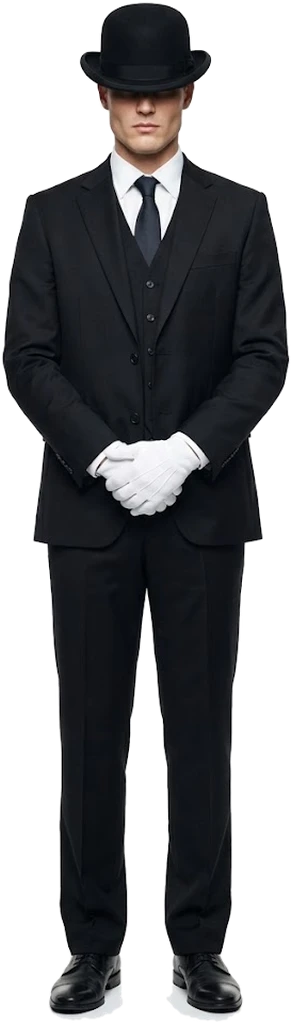
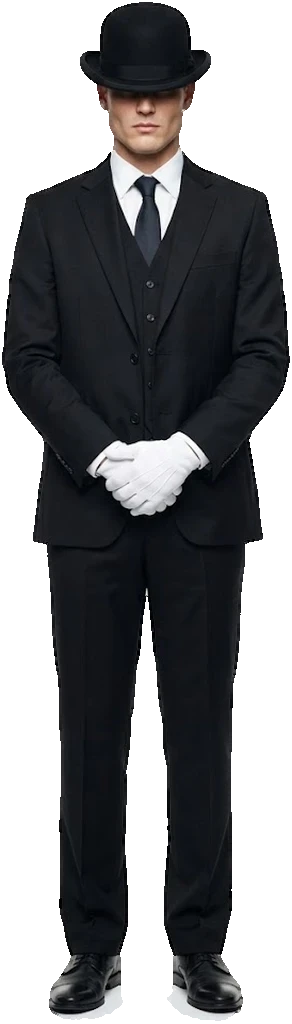
私人飛機改黑色金邊、停機坪改米白＋金線；虎換上真正的背面；管家放大並做成立體
Claude-Session: https://claude.ai/code/session_01WT61VZ4MhdTC2Vy4EDZdFG

diff --git a/index.html b/index.html
@@ -414,14 +414,15 @@ let vaultF;
   makeHeliotrope(H,-5,-10.5,1.3);
   // 屋頂停機坪＋私人飛機：家可以只有一個，但隨時可以起飛
   {const RY=Y+HH+.6,PX=6.6,PZ=.6,P_=new R.Group();P_.position.set(PX,RY,PZ);P_.scale.setScalar(.82);H.add(P_);
-    const padM=new R.MeshStandardMaterial({color:0x3A3834,roughness:.85}),lineM=new R.MeshBasicMaterial({color:0xF4F0E6}),goldM=new R.MeshStandardMaterial({color:0xD9B35A,metalness:.7,roughness:.3,emissive:0x4A3510,emissiveIntensity:.4});
+    const padM=new R.MeshStandardMaterial({color:0xEFE9DD,roughness:.55}),lineM=new R.MeshStandardMaterial({color:0xC9A14A,metalness:.8,roughness:.3,emissive:0x4A3510,emissiveIntensity:.35}),goldM=new R.MeshStandardMaterial({color:0xD9B35A,metalness:.7,roughness:.3,emissive:0x4A3510,emissiveIntensity:.4});
     const pad=new R.Mesh(new R.CylinderGeometry(5.6,5.6,.08,48),padM);pad.position.y=.04;pad.receiveShadow=true;P_.add(pad);
     const ring=new R.Mesh(new R.RingGeometry(4.9,5.1,64),lineM);ring.rotation.x=-Math.PI/2;ring.position.y=.09;P_.add(ring);
+    const ring2=new R.Mesh(new R.RingGeometry(5.38,5.46,64),lineM);ring2.rotation.x=-Math.PI/2;ring2.position.y=.092;P_.add(ring2);
     const oRing=new R.Mesh(new R.RingGeometry(1.5,1.9,48),goldM);oRing.rotation.x=-Math.PI/2;oRing.position.set(-3.2,.095,0);P_.add(oRing);   // 金色的 O：Origina
     const edge=[];for(let k=0;k<16;k++){const a2=k/16*Math.PI*2,l=new R.Mesh(new R.SphereGeometry(.09,8,6),new R.MeshBasicMaterial({color:0xFFD98A}));l.position.set(Math.cos(a2)*5.35,.14,Math.sin(a2)*5.35);P_.add(l);edge.push(l);}
     // 低多邊形私人噴射機（白色機身＋金色腰線），機頭朝外（+z 那側是家的正面）
     const J=new R.Group();J.position.set(.6,.62*.85,0);J.rotation.y=-Math.PI/2;J.scale.setScalar(.85);P_.add(J);
-    const white=new R.MeshStandardMaterial({color:0xFFFFFF,roughness:.4,metalness:0,emissive:0xFFFFFF,emissiveIntensity:.18}),dark=new R.MeshStandardMaterial({color:0x1E2632,roughness:.2,metalness:.5});
+    const white=new R.MeshStandardMaterial({color:0x2B2B30,roughness:.28,metalness:.55,emissive:0x111114,emissiveIntensity:.6}),dark=new R.MeshStandardMaterial({color:0xC9A14A,roughness:.25,metalness:.85,emissive:0x3A2808,emissiveIntensity:.3});   // 黑色機身＋金色窗框與細節
     const add=(g,m,x,y,z,rx=0,ry=0,rz=0)=>{const o=new R.Mesh(g,m);o.position.set(x,y,z);o.rotation.set(rx,ry,rz);o.castShadow=true;J.add(o);return o;};
     add(new R.CylinderGeometry(.62,.62,4.6,18),white,0,.9,0,Math.PI/2);                       // 機身
     const nose=add(new R.SphereGeometry(.62,18,12,0,Math.PI*2,0,Math.PI/2),white,0,.9,2.3,Math.PI/2);nose.scale.set(1,1.9,1);
@@ -673,10 +674,11 @@ F.hots=[
 // 立體：側面、正面各一張圖，用深度圖往前後各鼓起一半（displacement），再用法線圖打光；轉身轉到一半時換成正面那張
 {const tl=new R.TextureLoader(),H=14,GZI=GZ-7,DEP=1.25;const guards=[];
   const ld=(u,flip)=>{const t=tl.load(u);if(flip){t.wrapS=R.RepeatWrapping;t.repeat.x=-1;t.offset.x=1;}return t;};
+  const REAR={tiger:1};   // 已經有真正背面圖的守護者
   const statue=(k,v,pw,ph)=>{const w=H*pw/ph,g=new R.Group(),base=`img/guard-${k}-${v}`;
     const geo=new R.PlaneGeometry(w,H,Math.round(pw/ph*256),256);geo.translate(0,H/2,0);
-    const half=flip=>{const col=(v==='front'&&flip)?base+'-back.webp':base+'.webp';   // 正面像的背後：同輪廓、抹掉五官的石頭背面
-      const mat=new R.MeshStandardMaterial({map:ld(col,flip),normalMap:ld((v==='front'&&flip)?base+'-back-normal.webp':base+'-normal.webp',flip),normalScale:new R.Vector2(1.2,1.2),displacementMap:ld(base+'-depth.webp',flip),
+    const half=flip=>{const rear=v==='front'&&flip,real=rear&&REAR[k],col=real?base+'-rear.webp':rear?base+'-back.webp':base+'.webp';   // 背面：有真正的背面圖就用，沒有就用抹掉五官的石頭背面   // 正面像的背後：同輪廓、抹掉五官的石頭背面
+      const mat=new R.MeshStandardMaterial({map:ld(col,flip),normalMap:ld(real?base+'-rear-normal.webp':rear?base+'-back-normal.webp':base+'-normal.webp',flip),normalScale:new R.Vector2(1.2,1.2),displacementMap:ld(real?base+'-rear-depth.webp':base+'-depth.webp',flip),
         displacementScale:DEP,alphaTest:.5,roughness:.88,metalness:0,emissive:0xFFFFFF,emissiveMap:ld(col,flip),emissiveIntensity:.22});
       const me=new R.Mesh(geo,mat);me.castShadow=true;if(flip)me.rotation.y=Math.PI;
       me.customDepthMaterial=new R.MeshDepthMaterial({depthPacking:R.RGBADepthPacking,map:mat.map,alphaTest:.5});return me;};
@@ -719,15 +721,18 @@ F.hots=[
       g.glow.material.opacity=(eve?.85:.25)*(.8+.2*Math.sin(t*1.3+g.ph));g.halo.material.opacity=(eve?.2:.1)+.04*Math.sin(t*.8+g.ph);
       const a=g.pg.attributes.position.array;for(let q=0;q<g.N;q++){a[q*3+1]+=dt*(.4+(q%5)*.1);if(a[q*3+1]>H)a[q*3+1]=0;}g.pg.attributes.position.needsUpdate=true;});};}
 { // 超級管家：站在家門口右側。不用做什麼事，看到他就知道一切都會被打理好、收好尾
-  const bh=2.2,bw=bh*292/1024,tex=new R.TextureLoader().load('img/butler.webp');
-  const g=new R.PlaneGeometry(bw,bh);g.translate(0,bh/2,0);
-  const bm=new R.Mesh(g,new R.MeshBasicMaterial({map:tex,alphaTest:.5,side:R.DoubleSide}));bm.castShadow=true;
-  bm.customDepthMaterial=new R.MeshDepthMaterial({depthPacking:R.RGBADepthPacking,map:tex,alphaTest:.5});
-  const BX=hx+1.95,BZ=hz+7.35,piv=new R.Group();piv.position.set(BX,heightAt(hx,hz)+.5,BZ);piv.add(bm);out.add(piv);
-  F.col.push({x:BX,z:BZ,r:.35});
+  // 立體：跟守護者一樣，深度圖鼓起前後兩半＋法線打光
+  const bh=2.55,bw=bh*292/1024,tl=new R.TextureLoader(),T=u=>tl.load(u),FL=u=>{const t=tl.load(u);t.wrapS=R.RepeatWrapping;t.repeat.x=-1;t.offset.x=1;return t;};
+  const g=new R.PlaneGeometry(bw,bh,72,256);g.translate(0,bh/2,0);
+  const mk=(flip)=>{const L=flip?FL:T,map=L(flip?'img/butler-back.webp':'img/butler.webp');
+    const m=new R.Mesh(g,new R.MeshStandardMaterial({map,normalMap:L('img/butler-normal.webp'),displacementMap:L('img/butler-depth.webp'),displacementScale:.3,alphaTest:.5,roughness:.6,emissive:0xFFFFFF,emissiveMap:map,emissiveIntensity:.35}));
+    m.castShadow=true;m.customDepthMaterial=new R.MeshDepthMaterial({depthPacking:R.RGBADepthPacking,map,alphaTest:.5});if(flip)m.rotation.y=Math.PI;return m;};
+  const body=new R.Group();body.add(mk(false),mk(true));
+  const BX=hx+2.05,BZ=hz+7.4,piv=new R.Group();piv.position.set(BX,heightAt(hx,hz)+.5,BZ);piv.add(body);out.add(piv);
+  F.col.push({x:BX,z:BZ,r:.4});
   F.hots.push({id:'butler',name:'管家',verb:'看看',x:BX,z:BZ+1.2,r:2.2});
-  let bow=0;F.butlerUpdate=dt=>{piv.rotation.y=Math.atan2(camera.position.x-BX,camera.position.z-BZ);   // 一直面向你
-    const near=Math.hypot(P.x-BX,P.z-BZ)<3.2;bow+=((near?.16:0)-bow)*Math.min(1,dt*2.5);bm.rotation.x=-bow;};}   // 你走近時微微欠身
+  let bow=0;F.butlerUpdate=dt=>{const tgt=Math.atan2(camera.position.x-BX,camera.position.z-BZ);let d=tgt-piv.rotation.y;d=Math.atan2(Math.sin(d),Math.cos(d));piv.rotation.y+=d*Math.min(1,dt*2);   // 慢慢轉向你
+    const near=Math.hypot(P.x-BX,P.z-BZ)<3.2;bow+=((near?.14:0)-bow)*Math.min(1,dt*2.5);body.rotation.x=-bow;};}   // 你走近時微微欠身
 { // 屋頂：鋼梯是斜坡，梯頂之後可以在屋頂上走；屋頂邊緣不會掉下去
   const y0h=heightAt(hx,hz),RYw=5.9,base=F.floor,stair=(lx,lz)=>lx>13.7&&lx<15&&lz>-2.2&&lz<7.4;
   F.floor=(x,z)=>{const lx=x-hx,lz=z-hz;if(stair(lx,lz)){const t=clamp((6.9-lz)/8.6,0,1);return y0h+.5+t*(RYw-.5);}
